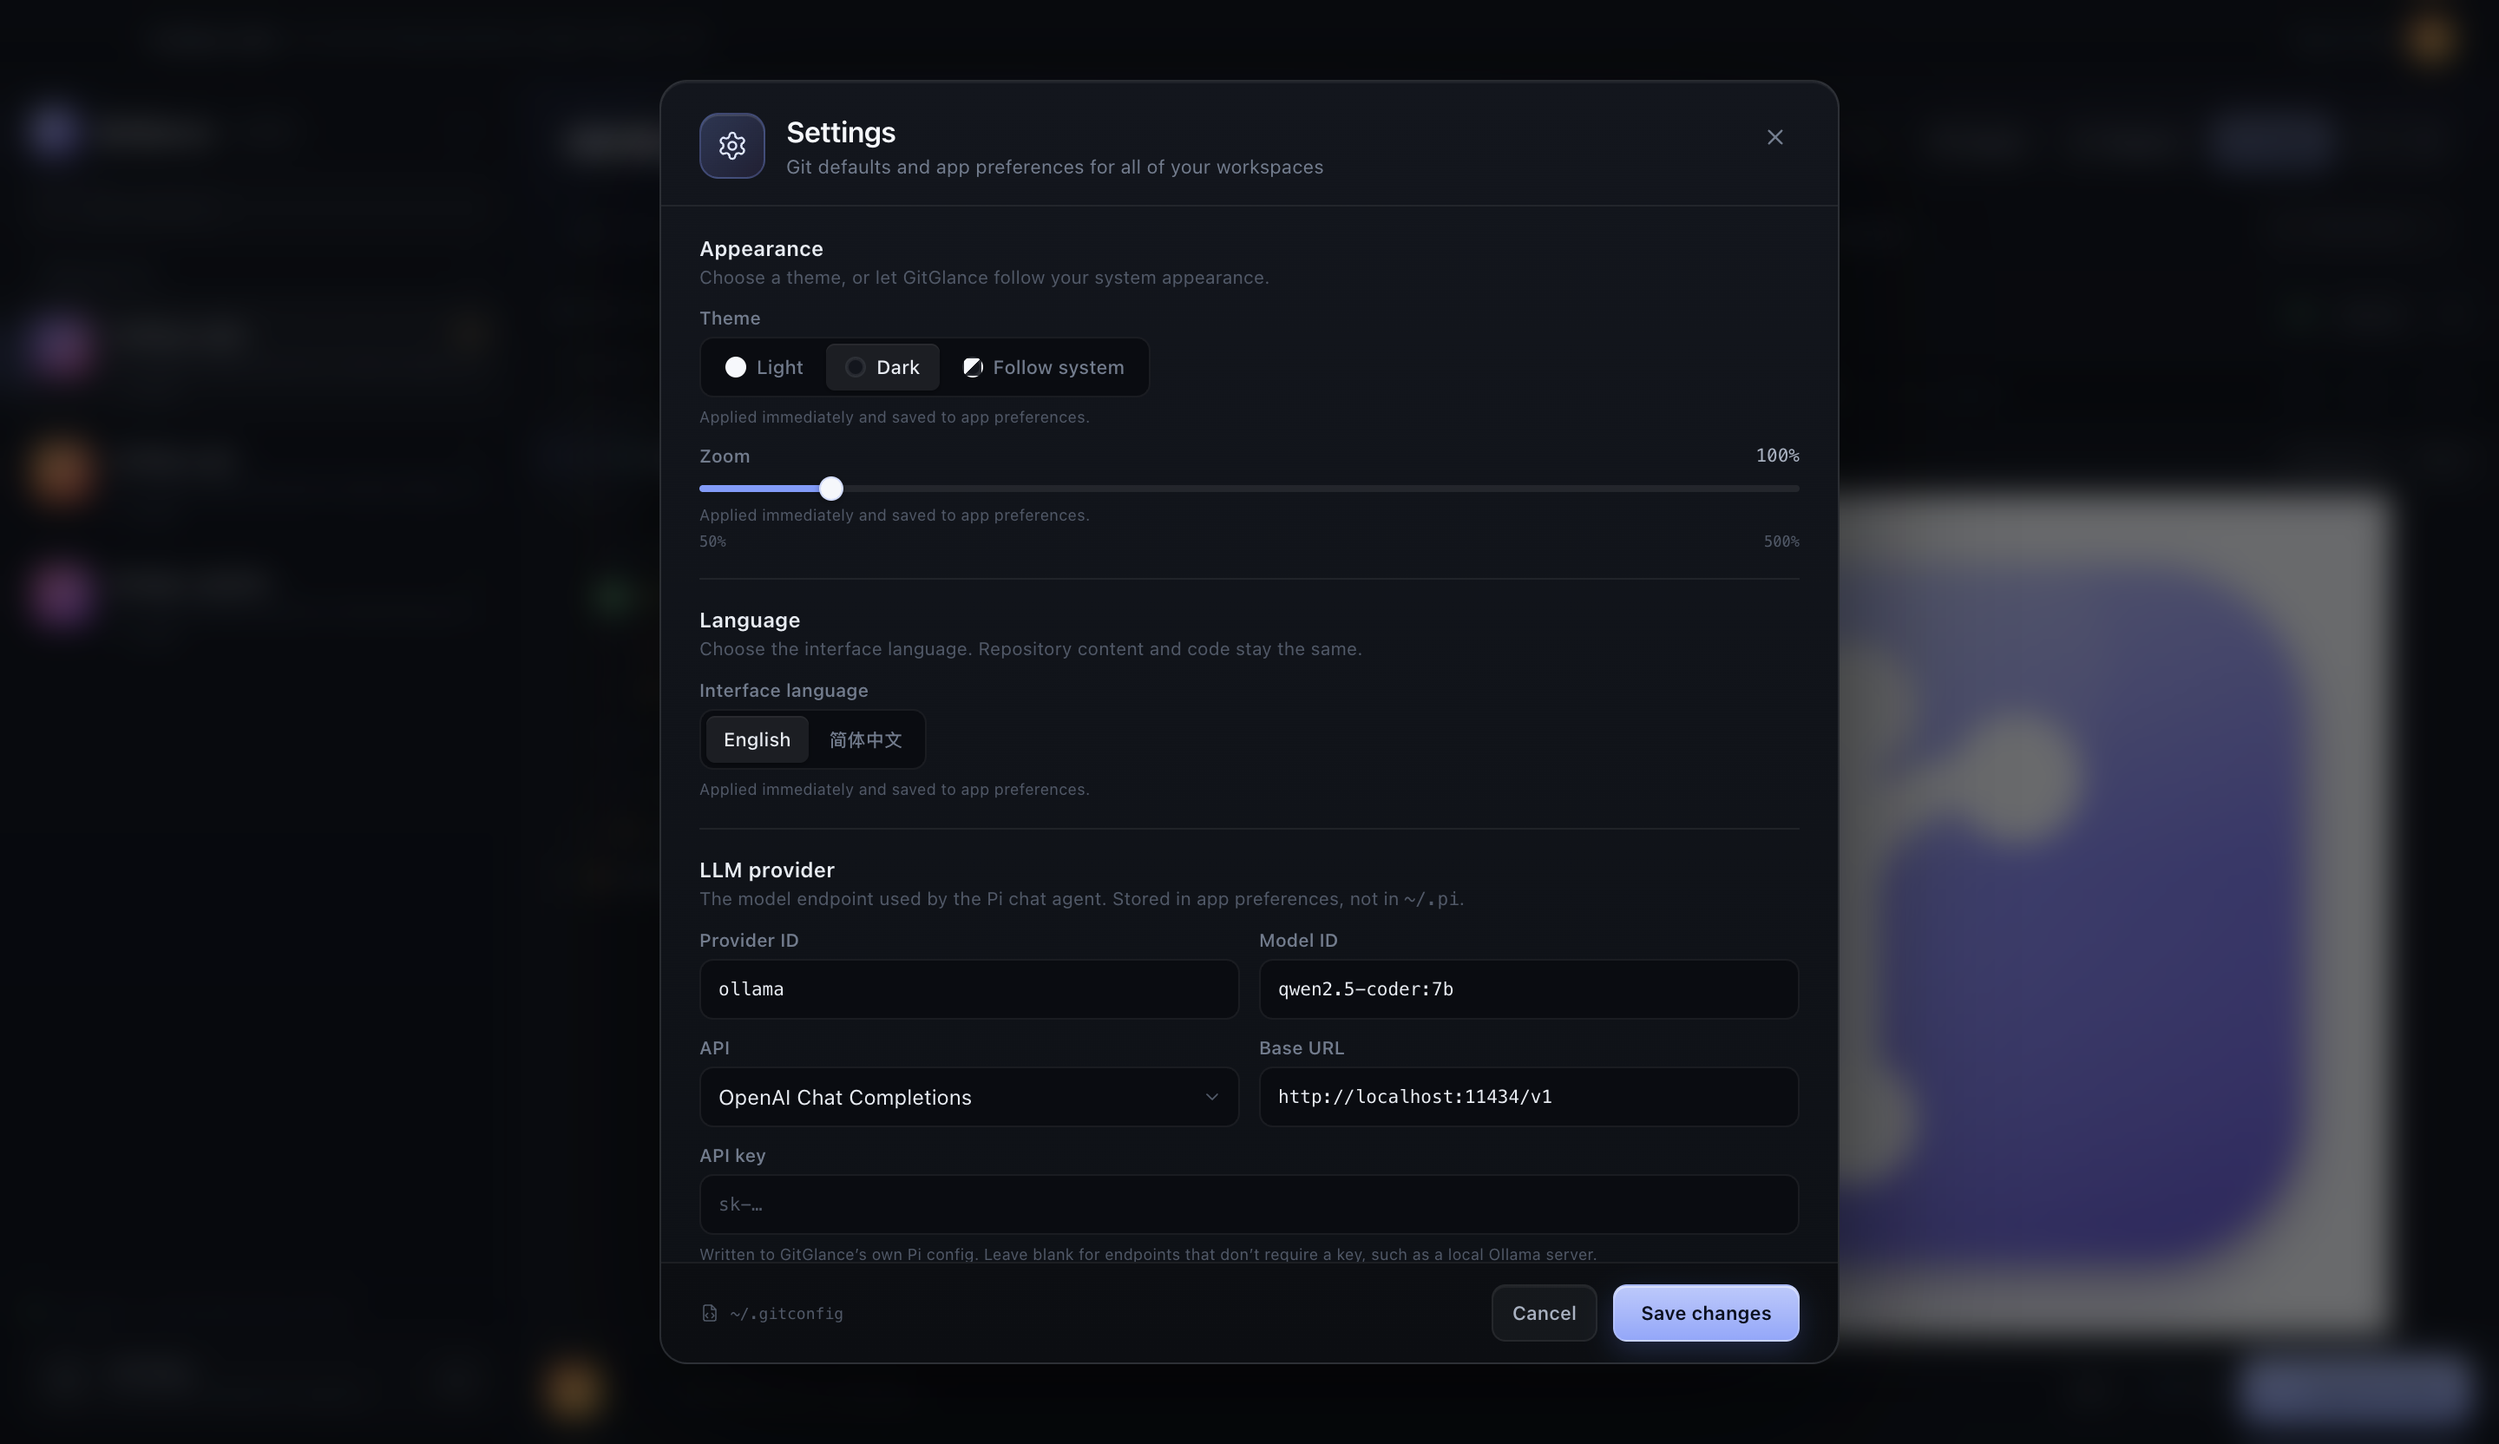
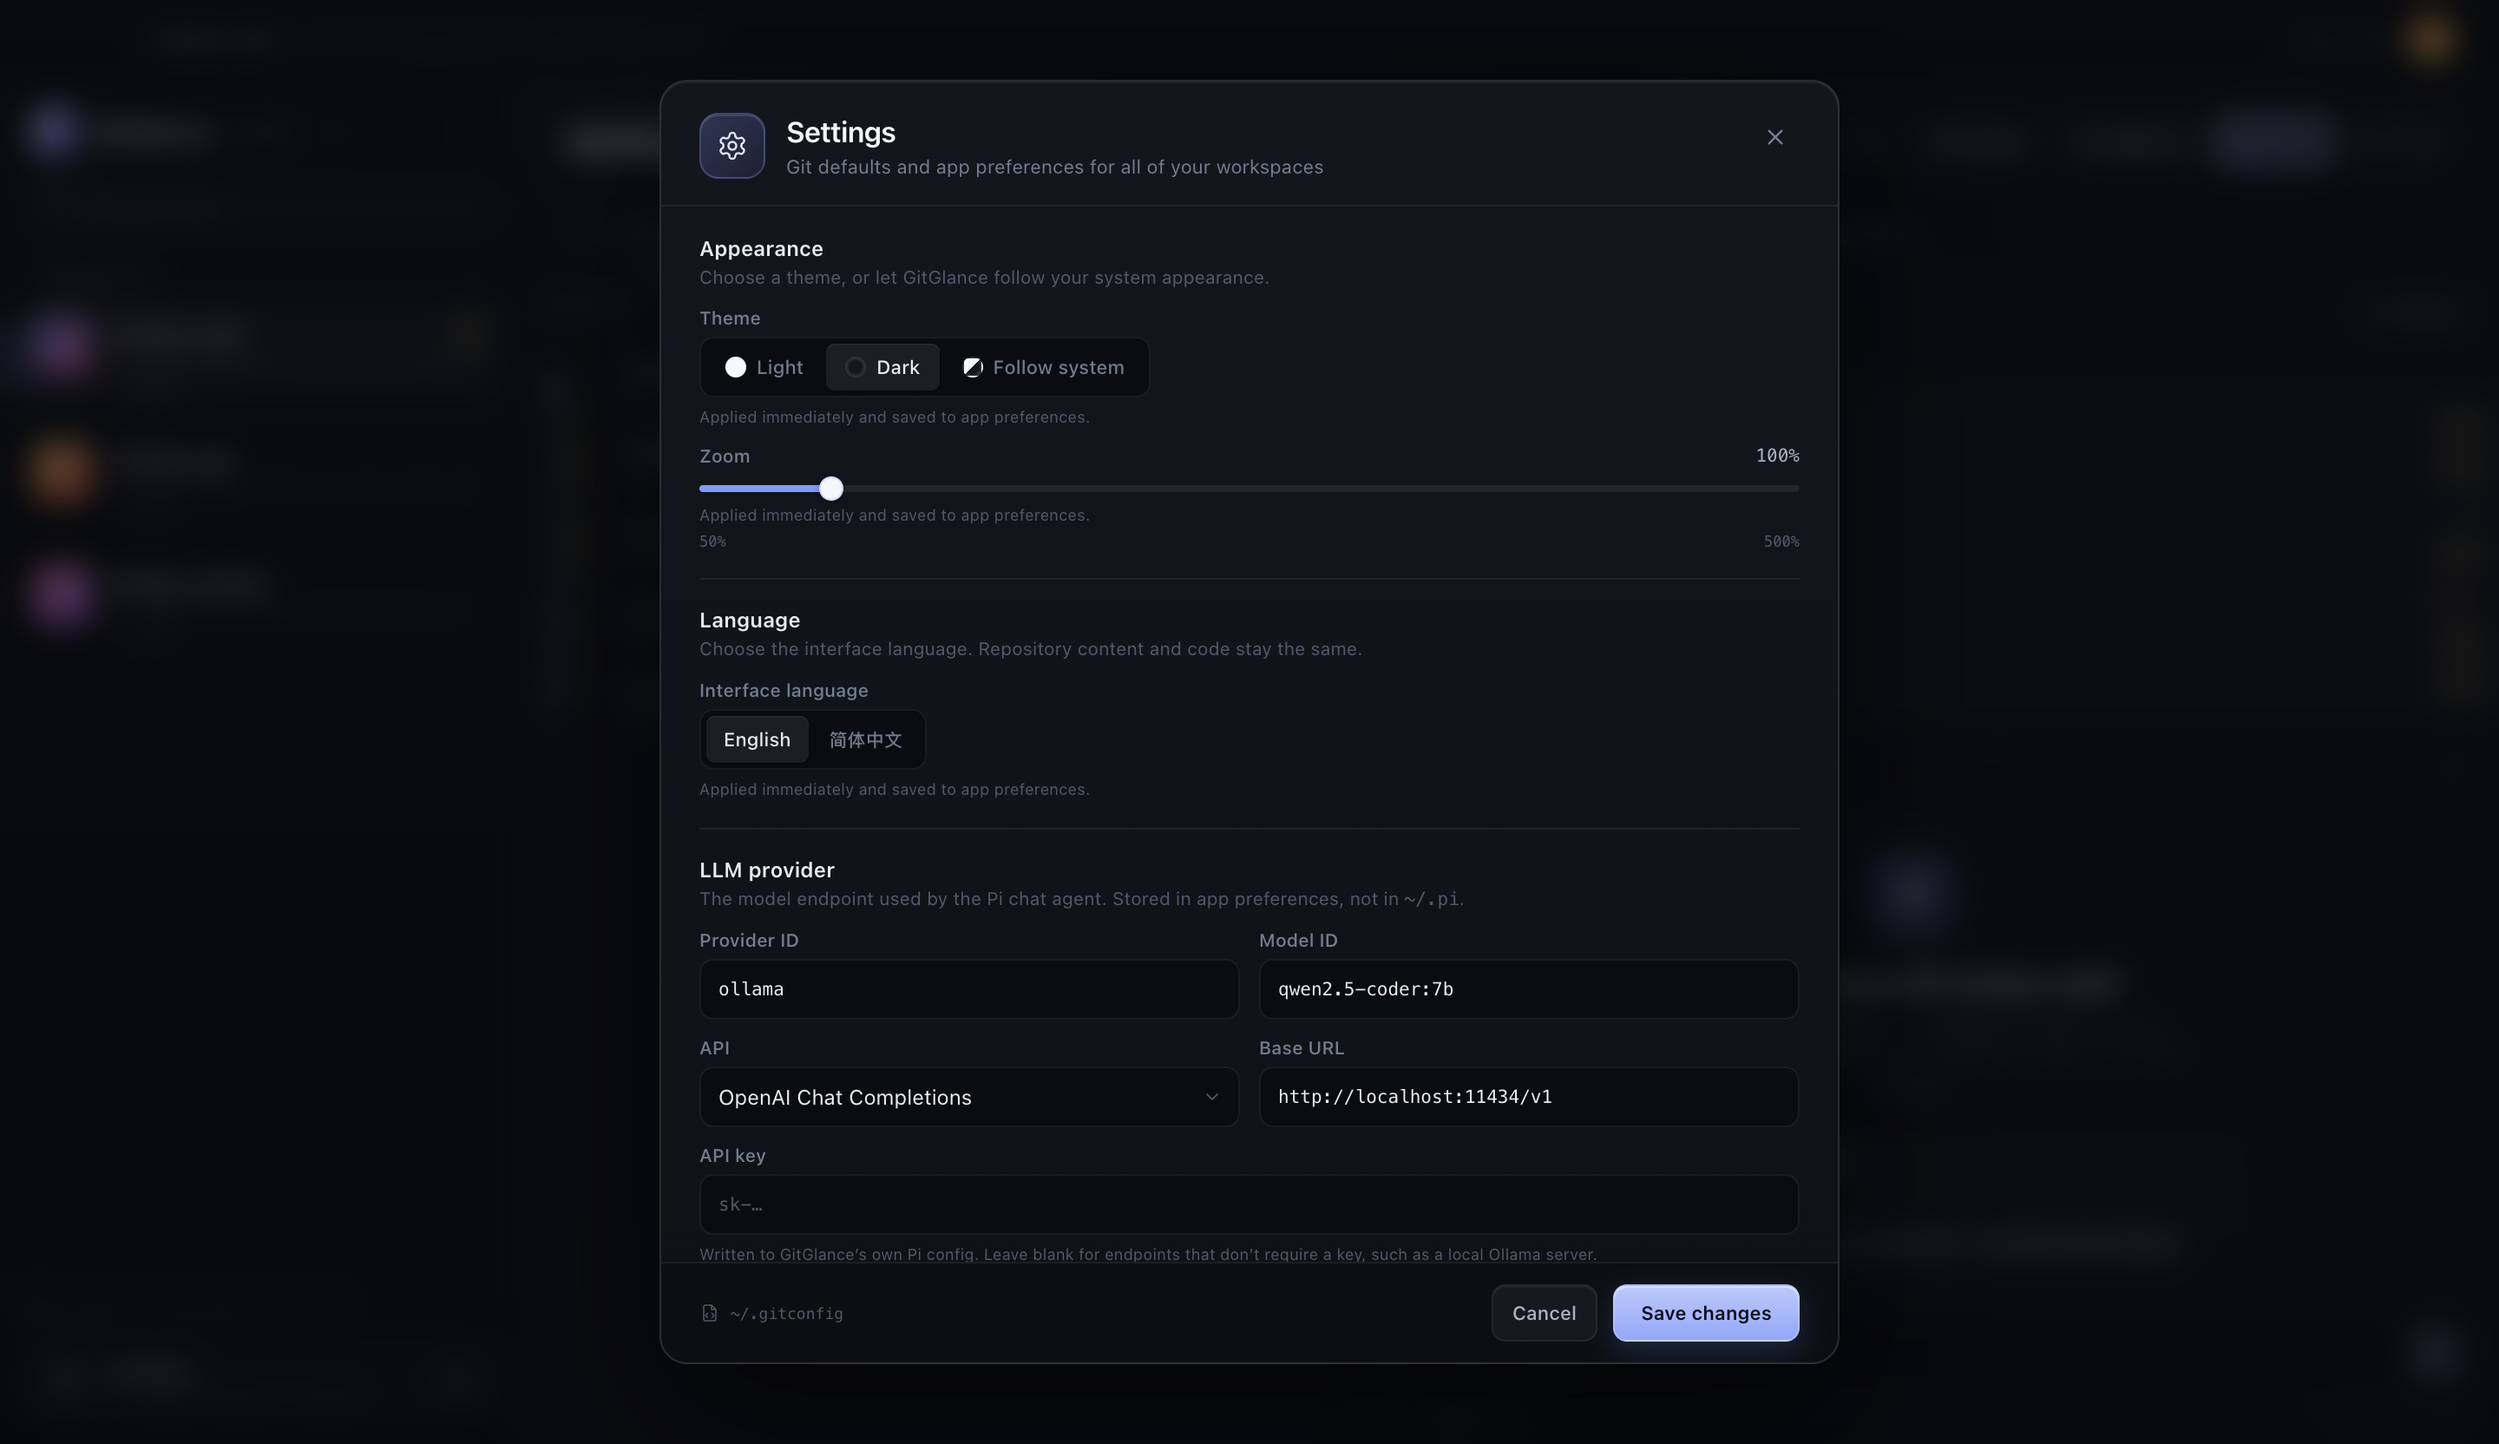
docs: document the About dialog and refresh screenshots

Changed region(s): [[0.7188, 0.3125, 1.0, 1.0], [0.2188, 0.9375, 0.25, 1.0]]

diff --git a/README.md b/README.md
@@ -11,7 +11,7 @@ A local Git desktop client built around the UI in [index.html](./index.html). It
 
 ## Documentation
 
-The [usage guide](./docs/USAGE.md) is the end-user walkthrough: opening and switching repositories, reading the summary, browsing the working tree, previewing files, staging and committing, the Chat history graph and its commit actions, worktrees, remotes, branches, tags, stashes, LFS audits, submodules, repository statistics and HTML reports, syncing with remotes, AI chat, settings, and troubleshooting.
+The [usage guide](./docs/USAGE.md) is the end-user walkthrough: opening and switching repositories, reading the summary, browsing the working tree, previewing files, staging and committing, the Chat history graph and its commit actions, worktrees, remotes, branches, tags, stashes, LFS audits, submodules, repository statistics and HTML reports, syncing with remotes, AI chat, settings, the About dialog, and troubleshooting.
 
 Quick links:
 
@@ -31,6 +31,7 @@ Quick links:
 - [AI chat with Pi](./docs/USAGE.md#ai-chat-with-pi)
 - [Chat commit actions](./docs/USAGE.md#commit-actions)
 - [Settings](./docs/USAGE.md#settings)
+- [About GitGlance](./docs/USAGE.md#about-gitglance)
 - [Keyboard shortcuts](./docs/USAGE.md#keyboard-shortcuts)
 - [Troubleshooting](./docs/USAGE.md#troubleshooting)
 
@@ -43,6 +44,10 @@ Quick links:
 | Working tree diff | Settings |
 | --- | --- |
 | ![Working tree diff for a modified source file](./docs/screenshots/file-diff.png) | ![Settings: appearance, language, and LLM provider](./docs/screenshots/settings-appearance.png) |
+
+| Prompts settings | About GitGlance |
+| --- | --- |
+| ![Settings: system prompt and custom user prompts](./docs/screenshots/settings-prompts.png) | ![About GitGlance](./docs/screenshots/about.png) |
 
 ## Features
 
@@ -65,9 +70,10 @@ Quick links:
 - **LFS tab** with a two-column audit: LFS-tracked files on the left and non-LFS files over 5 MB on the right, with sizes, OIDs, pointer/tracking badges, filtering, and open/reveal/copy actions.
 - **Submodules tab** listing each submodule with URL, expected/checked-out commits, branch, initialization/modified/dirty status, filtering, and update/open/reveal/copy actions.
 - **Statistics tab** with commit, contributor, file, language, activity, repository, and working-tree metrics plus a **Download** action that writes a self-contained HTML report.
-- **AI Chat tab** backed by the Pi agent, with a three-column workspace: an all-refs commit history graph on the left that loads the newest 80 commits first and pages older commits in as you scroll, a changed-file tree above the chat in the middle, and a preview pane on the right that opens when a changed file is selected. The preview has a hide button, so the tree and chat can use the full width. Right-clicking a commit offers New Branch, New Tag, Cherry Pick, Revert, Reset (Soft/Mixed/Hard), Squash into parent, and Copy SHA actions. Streaming responses, tool activity (including Git and shell commands), stop/new-chat controls, and per-repository conversations are included.
+- **AI Chat tab** backed by the Pi agent, with a three-column workspace: an all-refs commit history graph on the left that loads the newest 80 commits first and pages older commits in as you scroll, a changed-file tree above the chat in the middle, and a preview pane on the right that opens when a changed file is selected. The preview has a hide button, so the tree and chat can use the full width. Right-clicking a commit offers New Branch, New Tag, Cherry Pick, Revert, Reset (Soft/Mixed/Hard), Squash into parent, and Copy SHA actions. Streaming responses, tool activity (including Git and shell commands), stop/new-chat controls, ↑/↓ recall of sent messages when the caret is at the end of the composer, and per-repository conversations are included.
 - **Git settings** for identity, default branch, editor, pull strategy, GPG signing, pruning, and app-level auto-fetch behavior.
 - **Prompts** configuration for the Pi agent: a system prompt appended to GitGlance's built-in assistant instructions, plus up to eight custom user prompts shown as one-click chips above the chat composer.
+- **About dialog** from the info button beside the sidebar wordmark, with the running version, MIT license, runtime stack, Pi assistant note, and repository/release links.
 - **Appearance** with light, dark, and system-following themes plus interface zoom (50%–500%), applied live and remembered between launches.
 - **Language** with English and Simplified Chinese, applied live to the UI and native menus; repository content, code, and commit messages stay as-is.
 - **Native desktop shell** with a custom protocol, sandboxed renderer, context-isolated IPC, native menus, and single-instance behavior.

diff --git a/docs/USAGE.md b/docs/USAGE.md
@@ -31,6 +31,7 @@ actions, syncing with remotes, and talking to Pi about your code.
 - [AI chat with Pi](#ai-chat-with-pi)
 - [Chat commit actions](#commit-actions)
 - [Settings](#settings)
+- [About GitGlance](#about-gitglance)
 - [Appearance and language](#appearance-and-language)
 - [Keyboard shortcuts](#keyboard-shortcuts)
 - [Where your data lives](#where-your-data-lives)
@@ -529,6 +530,8 @@ Configure prompts in **Settings → Prompts**:
 
 Prompts are stored in app preferences (`config.json`), not in `~/.pi`.
 
+![Settings: system prompt and custom user prompts](./screenshots/settings-prompts.png)
+
 ### Commit actions
 
 Right-click any commit in the **History** column for a grouped menu:
@@ -582,6 +585,16 @@ Pull strategy mapping:
 The footer shows the Git config file being edited (`~/.gitconfig` by default).
 Set `GIT_CONFIG_GLOBAL` to use a different global config file.
 
+## About GitGlance
+
+The info button beside the sidebar wordmark (next to the version badge) opens
+the About dialog. It shows the running version, MIT license, runtime stack, a
+note that the Pi assistant uses your configured model endpoint, and links to
+the repository and release downloads. Links open in your default browser; close
+the dialog with **×**, **Close**, <kbd>Esc</kbd>, or a click outside it.
+
+![About GitGlance](./screenshots/about.png)
+
 ## Appearance and language
 
 The theme control offers **Light**, **Dark**, and **Follow system**. The choice
@@ -611,7 +624,7 @@ commit messages, and file paths are never translated.
 | <kbd>Enter</kbd> | Send a chat message |
 | <kbd>⇧↵</kbd> | Newline in the chat composer |
 | <kbd>↑</kbd> / <kbd>↓</kbd> | With the caret at the end of the chat composer: recall the previous / next sent message |
-| <kbd>Esc</kbd> | Close Settings |
+| <kbd>Esc</kbd> | Close the open dialog or context menu |
 | <kbd>⌘W</kbd> | Close the window |
 | <kbd>⌘Q</kbd> | Quit GitGlance |
 | <kbd>⌘+</kbd> / <kbd>⌘−</kbd> / <kbd>⌘0</kbd> | Zoom in / out / actual size |
@@ -628,7 +641,7 @@ the machine.
 | Data | Location |
 | --- | --- |
 | Git identity, pull strategy, signing, pruning | Global Git config (`~/.gitconfig` by default) |
-| Repository list, theme, language, zoom, auto-fetch, LLM provider | `~/Library/Application Support/GitGlance/config.json` on macOS (mode `0600`) |
+| Repository list, theme, language, zoom, auto-fetch, LLM provider, system prompt and custom prompts | `~/Library/Application Support/GitGlance/config.json` on macOS (mode `0600`) |
 | Generated Pi configuration | `<user data>/pi-agent/{models.json,settings.json}` |
 | Office conversion cache | `<user data>/preview-cache` |
 | Chat history | Renderer memory, per repository, for the current session |
